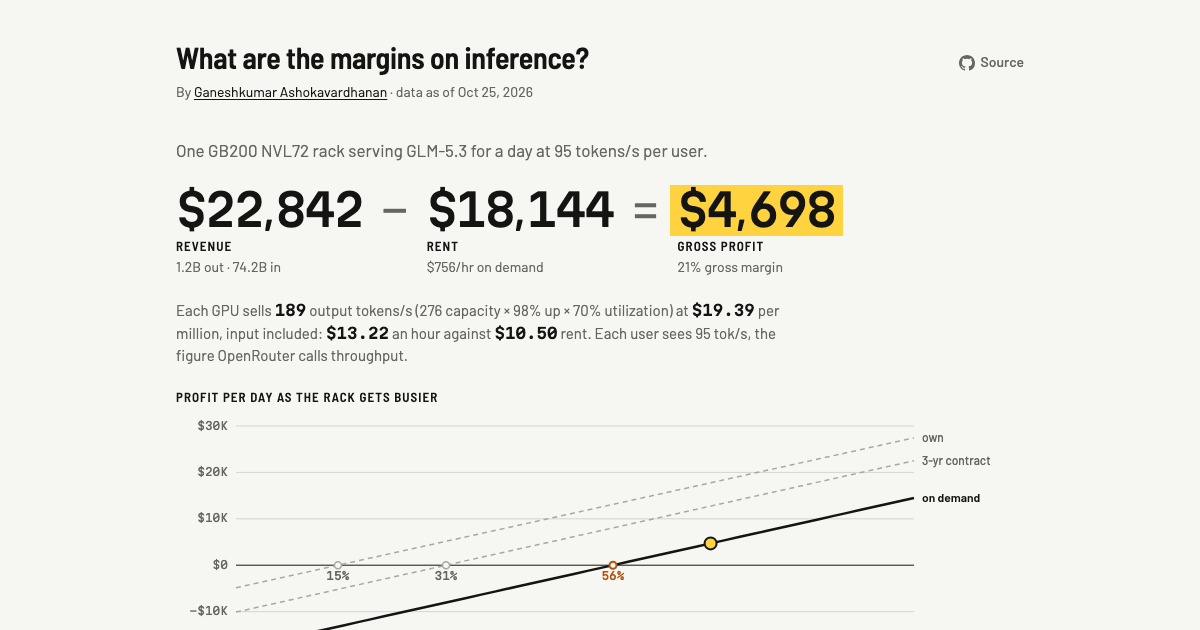
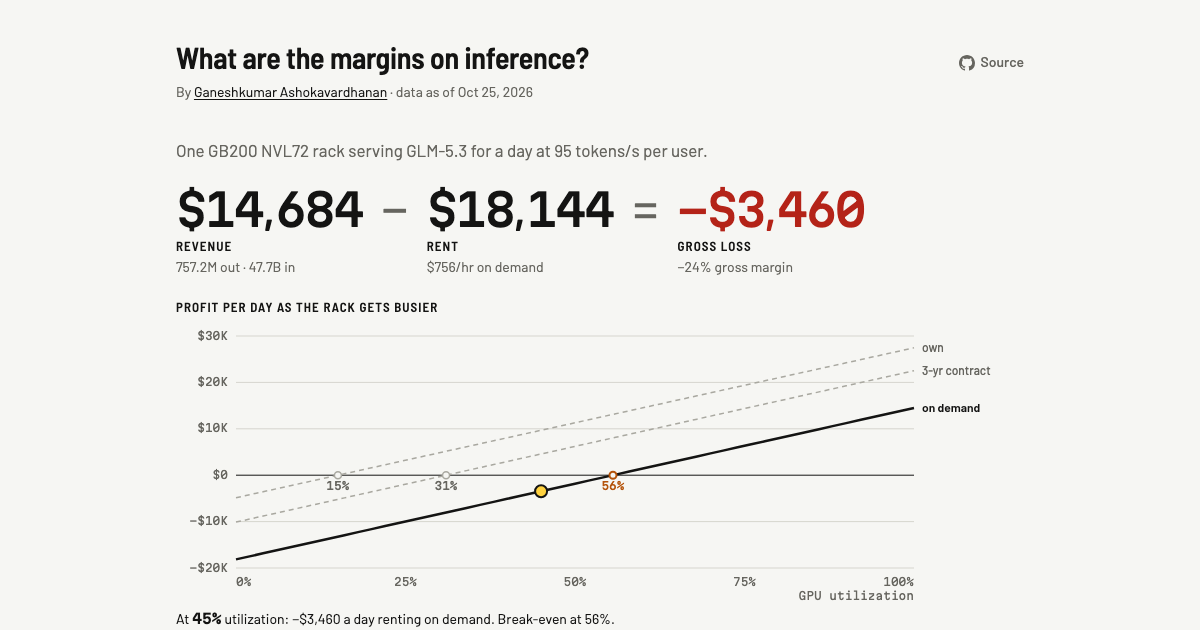
Explain utilization on the page; move the per-GPU line below the chart
- New FAQ "What does GPU utilization mean, and why 45%?", citing the
  Azure trace, DynamoLLM, Aegaeon, DeepSeek and OpenRouter's routing, and
  "Why multiply the benchmark by utilization?". The utilization slider
  links to it and opens the folded FAQ.
- The owning FAQ no longer says its default utilization is lower.
- The per-GPU line sits below the chart, so the equation and chart read
  together, and drops the breakdown the receipt already shows.
- Social preview text uses the new default day.

diff --git a/apps/web/e2e/site.spec.ts b/apps/web/e2e/site.spec.ts
@@ -12,19 +12,19 @@ async function nudge(page: Page, testId: string, key: 'ArrowRight' | 'ArrowLeft'
 
 test('1. defaults answer the four questions: rent, tokens, revenue, profit', async ({ page }) => {
   await page.goto('/');
-  await expect(page.getByTestId('revenue')).toHaveText('$22,842');
+  await expect(page.getByTestId('revenue')).toHaveText('$14,684');
   await expect(page.getByTestId('cost')).toHaveText('$18,144');
-  await expect(page.getByTestId('profit')).toHaveText('$4,698');
-  await expect(page.getByTestId('margin')).toHaveText('21% gross margin');
-  await expect(page.getByTestId('equation')).toContainText('1.2B out · 74.2B in');
-  await expect(page.getByTestId('unit-line')).toHaveText('Each GPU sells 189 output tokens/s (276 capacity × 98% up × 70% utilization) at $19.39 per million, input included: $13.22 an hour against $10.50 rent. Each user sees 95 tok/s, the figure OpenRouter calls throughput.');
-  await expect(page.getByTestId('chart-readout')).toHaveText('At 70% utilization: $4,698 a day renting on demand. Break-even at 56%.');
-  await expect(page.getByTestId('profit-chart').getByRole('img')).toHaveAttribute('aria-label', /^Profit per day against GPU utilization\. renting on demand, the selected option, breaks even at 56% and makes \$4,698 a day at 70% utilization\. For comparison, renting on a 3-yr contract breaks even at 31%; owning breaks even at 15%\.$/);
+  await expect(page.getByTestId('profit')).toHaveText('−$3,460');
+  await expect(page.getByTestId('margin')).toHaveText('−24% gross margin');
+  await expect(page.getByTestId('equation')).toContainText('757.2M out · 47.7B in');
+  await expect(page.getByTestId('unit-line')).toHaveText('Each GPU sells 122 output tokens/s at $19.39 per million, input included: $8.50 an hour against $10.50 rent. Each user sees 95 tok/s, what OpenRouter calls throughput.');
+  await expect(page.getByTestId('chart-readout')).toHaveText('At 45% utilization: −$3,460 a day renting on demand. Break-even at 56%.');
+  await expect(page.getByTestId('profit-chart').getByRole('img')).toHaveAttribute('aria-label', /^Profit per day against GPU utilization\. renting on demand, the selected option, breaks even at 56% and makes −\$3,460 a day at 45% utilization\. For comparison, renting on a 3-yr contract breaks even at 31%; owning breaks even at 15%\.$/);
   await expect(page.locator('.byline')).toContainText('Ganeshkumar Ashokavardhanan');
   await expect(page.locator('.byline a')).toHaveAttribute('href', 'https://ganeshkumarashok.com');
   // Each revenue line multiplies out from what it shows.
-  await expect(page.getByTestId('receipt')).toContainText('1.1778B × $4.40/M');
-  await expect(page.getByTestId('receipt')).toContainText('$5,182');
+  await expect(page.getByTestId('receipt')).toContainText('757.16M × $4.40/M');
+  await expect(page.getByTestId('receipt')).toContainText('$3,332');
   await expect(page.getByTestId('disclaimer')).toContainText('Not financial, investment, tax, or purchasing advice');
   await expect(page.getByTestId('disclaimer').getByRole('link')).toHaveAttribute('href', 'https://github.com/ganeshkumarashok/token-margin');
   await expect(page.getByTestId('repo-link')).toHaveAttribute('href', 'https://github.com/ganeshkumarashok/token-margin');
@@ -34,9 +34,9 @@ test('2. the contract toggle cuts rent to $421/hr and lands in the URL', async (
   await page.goto('/');
   await page.getByRole('radio', { name: /Rent, 3-yr contract/ }).click();
   await expect(page.getByTestId('cost')).toHaveText('$10,109');
-  await expect(page.getByTestId('profit')).toHaveText('$7,839');
-  await expect(page.getByTestId('margin')).toHaveText('44% gross margin');
-  await expect(page.getByTestId('s-sold')).toContainText('55%');
+  await expect(page.getByTestId('profit')).toHaveText('$4,576');
+  await expect(page.getByTestId('margin')).toHaveText('31% gross margin');
+  await expect(page.getByTestId('s-sold')).toContainText('45%');
   await expect(page).toHaveURL(/rb=contract/);
 });
 
@@ -45,12 +45,11 @@ test('3. lower utilization lowers profit; the break-even tick sits at 56%', asyn
   await expect(page.getByTestId('s-sold')).toContainText('break-even 56%');
   const before = await money(page, 'profit');
   await nudge(page, 's-sold', 'ArrowLeft', 20);
-  await expect(page.getByTestId('s-sold')).toContainText('50%');
+  await expect(page.getByTestId('s-sold')).toContainText('25%');
   const after = await money(page, 'profit');
   expect(after).toBeLessThan(before);
-  expect(after).toBeLessThan(0);
-  await expect(page.getByTestId('chart-readout')).toContainText('At 50% utilization: −$1,828 a day');
-  await expect(page).toHaveURL(/u=0\.5/);
+  await expect(page.getByTestId('chart-readout')).toContainText('At 25% utilization: −$9,986 a day');
+  await expect(page).toHaveURL(/u=0\.25/);
 });
 
 test('4. more input per output raises revenue (agents resend context)', async ({ page }) => {
@@ -64,23 +63,23 @@ test('4. more input per output raises revenue (agents resend context)', async ({
 test('5. owning swaps rent for the cost of owning and a rack-price slider', async ({ page }) => {
   await page.goto('/');
   await page.getByRole('radio', { name: /^Own, all-in/ }).click();
-  await expect(page.getByTestId('cost')).toHaveText('$5,036');
-  await expect(page.getByTestId('s-capex')).toContainText('$3.90M · $2.91/GPU-hr all-in');
-  await expect(page.getByTestId('equation')).toContainText('$210/hr all-in, owned');
+  await expect(page.getByTestId('cost')).toHaveText('$5,004');
+  await expect(page.getByTestId('s-capex')).toContainText('$3.90M · $2.90/GPU-hr all-in');
+  await expect(page.getByTestId('equation')).toContainText('$208/hr all-in, owned');
   await expect(page.getByTestId('s-rent')).toHaveCount(0);
   await expect(page.getByTestId('chart-readout')).toContainText('a day owning');
   await expect(page.getByTestId('profit-chart').getByRole('img')).toHaveAttribute('aria-label', /owning, the selected option, breaks even at 15%/);
-  await expect(page.getByTestId('s-power')).toContainText('14.5¢/kWh · $355/day');
+  await expect(page.getByTestId('s-power')).toContainText('14.5¢/kWh · $323/day');
   await expect(page.getByTestId('s-ops')).toContainText('$400/day');
   await page.goto('/?t=own&e=0.25');
-  await expect(page.getByTestId('s-power')).toContainText('25.0¢/kWh · $611/day');
+  await expect(page.getByTestId('s-power')).toContainText('25.0¢/kWh · $555/day');
 });
 
 test('6. GB300 uses its own curve, rent and price list', async ({ page }) => {
   await page.goto('/');
   await page.getByRole('radio', { name: 'GB300' }).click();
   await expect(page.getByTestId('cost')).toHaveText('$21,462');
-  await expect(page.getByTestId('revenue')).toHaveText('$27,965');
+  await expect(page.getByTestId('revenue')).toHaveText('$17,977');
   await expect(page.getByRole('radio', { name: /Rent on demand\s*\$894\/hr/ })).toBeVisible();
 });
 
@@ -90,7 +89,7 @@ test('7. a shared URL restores the scenario; reset returns to the defaults', asy
   await expect(page.getByRole('radio', { name: 'High' })).toHaveAttribute('aria-checked', 'true');
   await expect(page.getByTestId('cost')).toHaveText('$11,405');
   await page.getByRole('button', { name: /Reset/ }).click();
-  await expect(page.getByTestId('profit')).toHaveText('$4,698');
+  await expect(page.getByTestId('profit')).toHaveText('−$3,460');
   await expect(page).toHaveURL(/\/$/);
 });
 
@@ -100,7 +99,7 @@ test('8. phone: no sideways scroll, every control reachable', async ({ browser }
   await page.goto('/');
   expect(await page.evaluate(() => document.documentElement.scrollWidth - document.documentElement.clientWidth)).toBe(0);
   await page.getByRole('radio', { name: /Rent, 3-yr contract/ }).tap();
-  await expect(page.getByTestId('profit')).toHaveText('$7,839');
+  await expect(page.getByTestId('profit')).toHaveText('$4,576');
   await page.screenshot({ path: 'e2e/screenshots/phone.png', fullPage: true });
   await ctx.close();
 });
@@ -112,7 +111,7 @@ test('9. dark mode renders with no console errors', async ({ browser }) => {
   page.on('console', (m) => m.type() === 'error' && errors.push(m.text()));
   page.on('pageerror', (e) => errors.push(e.message));
   await page.goto('/');
-  await expect(page.getByTestId('profit')).toHaveText('$4,698');
+  await expect(page.getByTestId('profit')).toHaveText('−$3,460');
   const bg = await page.evaluate(() => getComputedStyle(document.body).backgroundColor);
   expect(bg).toBe('rgb(18, 18, 17)');
   expect(errors).toEqual([]);
@@ -121,9 +120,9 @@ test('9. dark mode renders with no console errors', async ({ browser }) => {
 
 test('10. overhead adds a cost term and turns gross profit into profit', async ({ page }) => {
   await page.goto('/?oh=0.1');
-  await expect(page.getByTestId('overhead')).toHaveText('$2,284');
-  await expect(page.getByTestId('profit')).toHaveText('$2,414');
-  await expect(page.getByTestId('margin')).toHaveText('11% margin');
+  await expect(page.getByTestId('overhead')).toHaveText('$1,468');
+  await expect(page.getByTestId('profit')).toHaveText('−$4,928');
+  await expect(page.getByTestId('margin')).toHaveText('−34% margin');
   await expect(page.getByTestId('s-overhead')).toContainText('10% of revenue');
 });
 
@@ -158,7 +157,7 @@ test('13. without JavaScript the page still shows the day, the receipt and the s
   const page = await ctx.newPage();
   await page.goto('/');
   await expect(page.getByRole('heading', { level: 1 })).toHaveText('What are the margins on inference?');
-  await expect(page.getByTestId('profit')).toHaveText('$4,698');
+  await expect(page.getByTestId('profit')).toHaveText('−$3,460');
   await expect(page.getByTestId('receipt')).toContainText('Gross profit');
   await expect(page.getByTestId('disclaimer')).toContainText('Not financial, investment, tax, or purchasing advice');
   await ctx.close();
@@ -168,7 +167,7 @@ test('14. a shared link with settings renders its own numbers over the pre-rende
   const errors: string[] = [];
   page.on('console', (m) => m.type() === 'error' && errors.push(m.text()));
   await page.goto('/?rb=contract');
-  await expect(page.getByTestId('profit')).toHaveText('$7,839');
+  await expect(page.getByTestId('profit')).toHaveText('$4,576');
   await expect(page.locator('#root .answer')).toHaveCount(1);
   expect(errors).toEqual([]);
 });

diff --git a/apps/web/src/components/Faq.tsx b/apps/web/src/components/Faq.tsx
@@ -11,9 +11,10 @@ const ITEMS: Array<[string, React.ReactNode]> = [
   ['How is "63 input tokens per output" worked out?', <>OpenRouter's <a href={glm.mix.url}>GLM-5.3 page</a> publishes daily totals of prompt, completion and cached tokens across all providers. From Sep 25 to Oct 24, 2026, prompts came to 16,992B tokens and completions to 271B (reasoning included): 62.7 to 1. 90.3% of prompt tokens were cache reads. The <a href={`${REPO}/blob/main/research/openrouter_ratios.py`}>calculation</a> and the raw data are in the repository.</>],
   ['Are reasoning tokens counted?', <>Yes. A reasoning token takes the same GPU work to generate as any other output token, and OpenRouter bills it at the output price. On GLM-5.3, 71% of output tokens on OpenRouter are reasoning (63% to 76% day to day): of about 1,067 output tokens per request, about 306 are the visible answer.</>],
   ['How optimized is the serving setup?', <>It is InferenceX's tuned, public recipe on nightly builds, not a default install. On GB200: NVIDIA Dynamo with SGLang, prefill and decode on separate GPUs (24 and 16), NVFP4 weights with an FP8 KV cache, speculative decoding (EAGLE multi-token prediction, up to 6 draft tokens), FlashInfer MoE kernels, experts spread across 16 GPUs with data-parallel attention, KV-cache-aware routing that keeps a conversation's turns on the same prefill GPUs, and KV cache offload to 721 GB of CPU memory. It is strong but not necessarily the best possible: GLM's throughput on GB200 roughly quadrupled between August and October 2026, and private stacks may do better. The <a href="https://github.com/SemiAnalysisAI/InferenceX">recipes</a> and <a href="https://github.com/SemiAnalysisAI/InferenceX/actions/runs/39765601214/attempts/2">run logs</a> are public.</>],
-  ['What does GPU utilization mean here?', <>The share of the rack's measured capacity that is sold, averaged over the day. At 70%, the rack sells 70% of the tokens it could produce at the chosen output speed.</>],
+  ['What does GPU utilization mean, and why 45%?', <>It is the share of the rack's measured capacity that is sold, averaged over the day. One rack has to be ready for the busiest hours, so it sells only the average share of them. On OpenRouter, the average day for open models is 68% of the busiest day of the month. Within a day, chat traffic on Azure averages 71% of its busiest 5 minutes (<a href="https://github.com/Azure/AzurePublicDataset/blob/master/AzureLLMInferenceDataset2024.md">Azure LLM Inference Dataset 2024</a>; peak load is 1.7× the average for chat and 2.8× for coding, per <a href="https://arxiv.org/abs/2408.00741">DynamoLLM</a>). Keeping speed steady at peaks needs about 10% headroom. 0.68 × 0.71 × 0.9 ≈ 45%. For comparison, Alibaba's model marketplace ran its GPUs 13–34% busy (<a href="https://ennanzhai.github.io/pub/sosp25-aegaeon.pdf">Aegaeon</a>), and DeepSeek's busy first-party service averaged 82% of its peak fleet. A new provider also has to win <a href="https://openrouter.ai/docs/guides/providers/traffic-routing">OpenRouter's routing</a> on price, speed and reliability to get traffic at all. The same 45% applies to renting and owning, because a single rack cannot hand back part of itself when demand drops.</>],
+  ['Why multiply the benchmark by utilization?', <>InferenceX measures the most the rack can produce while every user still gets 95 tok/s, with as many agent sessions running as that allows. Utilization is the share of that capacity with paying traffic behind it. When demand is lower the GPUs run lighter and users get faster responses, but they pay the same per token. The benchmark also counts a slightly different prompt load than OpenRouter's traffic; depending on how its cache accounting is read, real traffic gets 256 to 308 tokens/s per GPU rather than 276.</>],
   ['Why does faster output per user lower profit?', <>A GPU serves many users at once. Faster output for each user means fewer users per GPU, so the rack makes fewer tokens in total. Prices stay fixed here; fast tiers on OpenRouter charge about 1.5×.</>],
-  ['Why is owning so much cheaper than renting on demand?', <>An owned GB200 costs about $2.91 per GPU-hour all-in, against ${rack.rentUsdPerGpuHr.value.toFixed(2)} on demand. The on-demand price pays for the cloud's margin and spare capacity, and for being able to hand the rack back; owning or a contract trades that flexibility for price, which is why their default utilization is lower.</>],
+  ['Why is owning so much cheaper than renting on demand?', <>An owned GB200 costs about $2.91 per GPU-hour all-in, against ${rack.rentUsdPerGpuHr.value.toFixed(2)} on demand. The on-demand price pays for the cloud's margin and spare capacity, and for being able to hand the rack back; owning or a contract trades that flexibility for price.</>],
   ['What about NVIDIA\'s "$5M in, $75M of tokens out"?', <>That needs 5,505 output tokens/s per GPU, sold every second for three years. On agentic traffic InferenceX measures 312 on GB200 at 95 tok/s per user.</>],
   ['What is left out?', <>Sales, customer support, payment fees and taxes. The overhead slider adds the first three as a share of revenue.</>],
   ['How current is this?', <>Prices, traffic and throughput are as of {A.version}. They move fast: GLM throughput on GB200 roughly quadrupled between August and October 2026, and new-contract rents rose through the year. Each data snapshot is tagged in the repository.</>],
@@ -22,7 +23,7 @@ const ITEMS: Array<[string, React.ReactNode]> = [
 
 export function Faq() {
   return (
-    <details className="fold" data-testid="faq">
+    <details className="fold" id="faq" data-testid="faq">
       <summary><h2>FAQ</h2></summary>
       <dl className="faq">
         {ITEMS.map(([q, a]) => (

diff --git a/apps/web/src/components/Details.tsx b/apps/web/src/components/Details.tsx
@@ -118,7 +118,7 @@ export function Details({ m }: { m: Model }) {
         <li>Throughput is InferenceX's agentic benchmark, which replays 393 Claude Code sessions {s.model === 'glm53' ? 'on GLM-5.2 (the same architecture as GLM-5.3) in NVFP4 on Dynamo SGLang' : 'on DeepSeek V4 Pro in FP4 on Dynamo vLLM and SGLang'}. Those sessions carry longer conversations than OpenRouter's average, and longer conversations are slower to serve, so real traffic may run somewhat faster than measured.</li>
         <li>The token mix comes from <a href={model.mix.url}>OpenRouter's {model.short} page</a>, which publishes daily prompt, completion and cached token counts across all providers. Over 30 days they work out to {model.mix.islOsl} input tokens per output token, with {fmtPct(model.mix.cacheHit)} of input served from cache (<a href={`${REPO}/blob/main/research/openrouter_ratios.py`}>calculation</a>). Prices are the {model.priceNotes.median} (low is {model.priceNotes.floor}; high is {model.priceNotes.list}).</li>
         <li>Rent is the cheapest published whole-rack list price, or a 3-year multi-rack contract at the 75th percentile of what 2026 deals are reported at.</li>
-        <li>Hourly rentals can be handed back when demand falls, so they default to 70% utilization. A rack you keep for years also runs through quiet nights, weekends and slow days, so on average it sells less of its capacity: 55% by default.</li>
+        <li>Utilization defaults to 45% whether the rack is rented or owned: one rack has to be ready for busy hours, production LLM traffic averages well below its peak, and a new provider has to win OpenRouter's routing to get traffic at all (see the FAQ).</li>
         <li>An owned rack's price, less its 10% resale value, is spread over 4 years as equal yearly payments that include 9% a year on the money tied up in it, the same as paying off a 9% loan. Support, operations, space and power come on top.</li>
       </ul>
 

diff --git a/apps/web/index.html b/apps/web/index.html
@@ -9,12 +9,12 @@
     <link rel="canonical" href="https://tokens.ganeshkumarashok.com/" />
     <meta property="og:type" content="website" />
     <meta property="og:title" content="What are the margins on inference?" />
-    <meta property="og:description" content="One GB200 rack, one day, GLM-5.3: $22,842 of tokens − $18,144 on-demand rent = $4,698. On a 3-year contract: $12,734." />
+    <meta property="og:description" content="One GB200 rack, one day, GLM-5.3 at 45% utilization: renting on demand loses $3,460, a 3-year contract makes $4,576, owning makes $9,681." />
     <meta property="og:url" content="https://tokens.ganeshkumarashok.com/" />
     <meta property="og:image" content="https://tokens.ganeshkumarashok.com/og.png" />
     <meta name="twitter:card" content="summary_large_image" />
     <meta name="twitter:title" content="What are the margins on inference?" />
-    <meta name="twitter:description" content="One GB200 rack, one day, GLM-5.3: $22,842 of tokens − $18,144 on-demand rent = $4,698. On a 3-year contract: $12,734." />
+    <meta name="twitter:description" content="One GB200 rack, one day, GLM-5.3 at 45% utilization: renting on demand loses $3,460, a 3-year contract makes $4,576, owning makes $9,681." />
     <meta name="twitter:image" content="https://tokens.ganeshkumarashok.com/og.png" />
     <link rel="preconnect" href="https://fonts.googleapis.com" />
     <link rel="preconnect" href="https://fonts.gstatic.com" crossorigin />

diff --git a/apps/web/src/components/Controls.tsx b/apps/web/src/components/Controls.tsx
@@ -68,6 +68,12 @@ function Seg<T extends string>({ value, options, onChange, label }: {
 
 type Cost = 'onDemand' | 'contract' | 'own';
 
+/** The FAQ is folded; open it before the browser jumps to it. */
+const openFaq = () => {
+  const el = document.getElementById('faq');
+  if (el instanceof HTMLDetailsElement) el.open = true;
+};
+
 export function Controls({ m }: { m: Model }) {
   const { settings: s, update } = m;
   const rack = A.racks[s.rack];
@@ -140,7 +146,7 @@ export function Controls({ m }: { m: Model }) {
       <Slider profitable={profitNow >= 0} testId="s-sold" label="GPU utilization" value={s.utilization} display={fmtPct(s.utilization)}
         min={range('utilization')[0]} max={1} step={0.01} onChange={(v) => update({ utilization: v })}
         zero={zero('utilization', [0, 1])} zeroLabel={fmtPct(zero('utilization', [0, 1]))}
-        hint="share of the rack's measured throughput you sell" />
+        hint={<>share of the rack's measured throughput you sell; <a href="#faq" onClick={openFaq}>why 45% by default</a></>} />
 
       <div className="prices">
         <span className="plabel">Token price</span>

diff --git a/apps/web/src/components/Answer.tsx b/apps/web/src/components/Answer.tsx
@@ -60,13 +60,14 @@ export function Answer({ m }: { m: Model }) {
         </div>
       </div>
 
-      <p className="unit-line" data-testid="unit-line">
-        Each GPU sells <b>{fmtInt(sold)}</b> output tokens/s ({fmtInt(d.capacityPerGpu)} capacity × {fmtPct(i.availability)} up × {fmtPct(i.utilization)} utilization)
-        {' '}at <b>${perMOut.toFixed(2)}</b> per million, input included: <b>${perGpuHr.toFixed(2)}</b> an hour against{' '}
-        <b>${costPerGpuHr.toFixed(2)}</b> {owning ? 'all-in to own' : 'rent'}. Each user sees {Math.round(i.interactivity)} tok/s, the figure OpenRouter calls throughput.
-      </p>
 
       <ProfitChart m={m} />
+
+      <p className="unit-line" data-testid="unit-line">
+        Each GPU sells <b>{fmtInt(sold)}</b> output tokens/s at <b>${perMOut.toFixed(2)}</b> per million, input included:{' '}
+        <b>${perGpuHr.toFixed(2)}</b> an hour against <b>${costPerGpuHr.toFixed(2)}</b> {owning ? 'all-in to own' : 'rent'}.
+        Each user sees {Math.round(i.interactivity)} tok/s, what OpenRouter calls throughput.
+      </p>
     </section>
   );
 }
